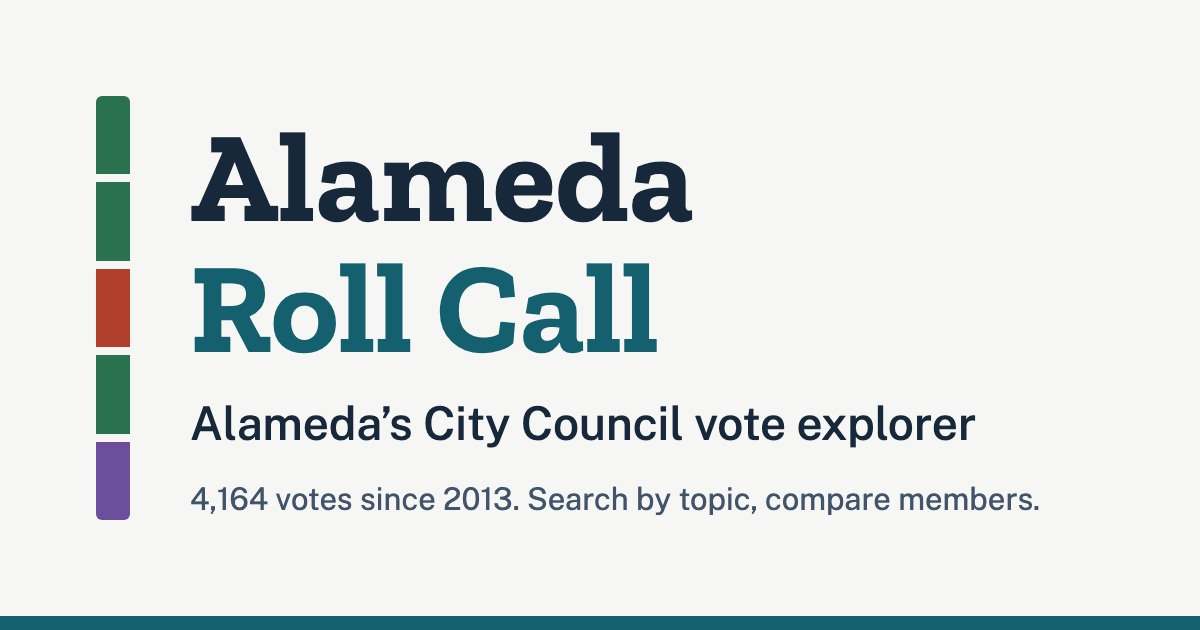
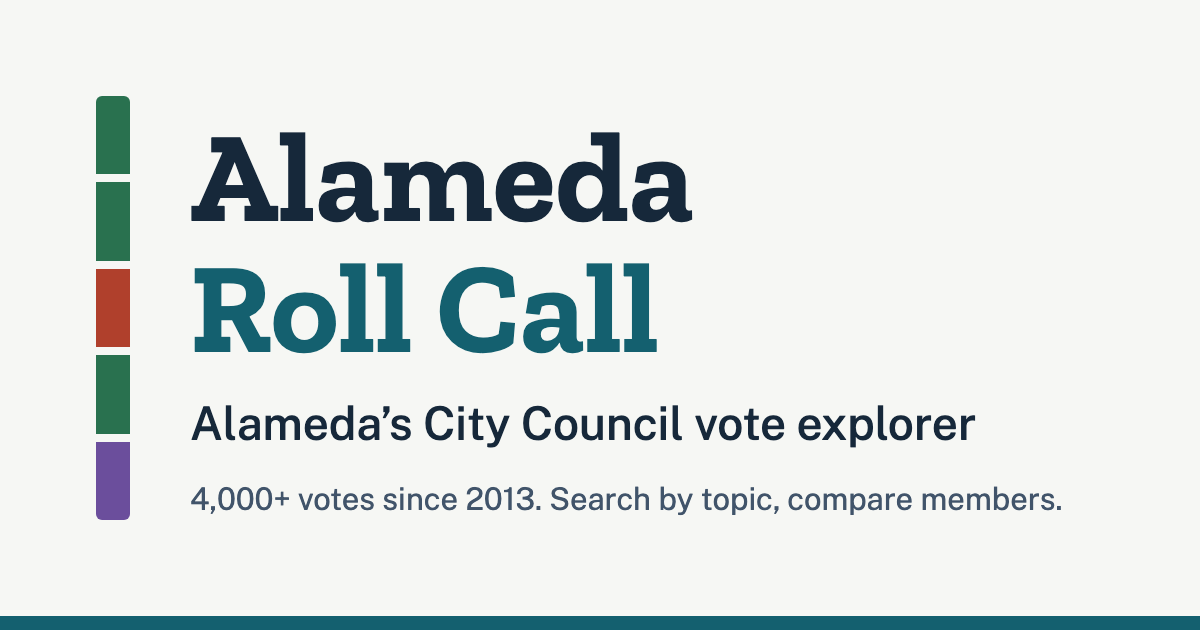
Show Ashcraft as the last name; fix recusals and a missed vote
- Label Marilyn Ezzy Ashcraft as "Ashcraft" where a last name is shown.
- A trailing "[Absent: X]" bracket no longer overrides a clerk's note that X
  recused (24 votes change from absent to recused, incl. Boller on 2026-09-15).
- Match the clerk's "carried by the by unanimous" typo, which had dropped the
  2026-09-15 accessory dwelling unit ordinance vote (4,165 votes now).
- Share image says "4,000+" so it doesn't go stale.

Changed region(s): [[0.185, 0.754, 0.8942, 0.8143]]

diff --git a/scrape_votes.py b/scrape_votes.py
@@ -48,6 +48,8 @@ COUNCIL_BODY_ID = 138  # "City Council" per /bodies
 # minutes, not assumed pre-2013 history. Names must match the clerk's
 # spelling; matching is substring-based, so e.g. "Spencer" also matches
 # later "Herrera Spencer" mentions after her name change.
+# "Ezzy" is a nickname/middle name, so show members as just "Ashcraft".
+DISPLAY_LAST = {"Ezzy Ashcraft": "Ashcraft"}
 MEMBERS = {
     "Ezzy Ashcraft": ("MEA", "Marilyn Ezzy Ashcraft", "Councilmember 2013-2018; Mayor 2019-present", "2013-present"),
     "Pryor":         ("MP",  "Michele Pryor", "Vice Mayor", "2024-2028"),
@@ -102,7 +104,9 @@ def build_members(votes):
     for frag, (s, n, r, t) in MEMBERS.items():
         meta = MEMBER_META.get(s, {})
         out.append({
-            "short": s, "name": n, "role": r, "term": t, "last": frag,
+            "short": s, "name": n, "role": r, "term": t,
+            # Display label; frag is the clerk's spelling used for matching.
+            "last": DISPLAY_LAST.get(frag, frag),
             "start": first.get(s),
             "end": None if meta.get("serving") else last.get(s),
             "spans": spans.get(s, []),
@@ -182,7 +186,7 @@ OTHER_BODY_RE = re.compile(r"\b(?:SACIC|APFA|CAFA|APIC|ACIC|PUB)\b")
 STATED_TALLY_RE = re.compile(r"Ayes:\s*(\d+)[.;]?\s*Noes:\s*(\d+)", re.I)
 
 UNANIMOUS_RE = re.compile(
-    r"\b(?P<outcome>carried|failed)\s+by\s+unanimous[^.]*?[-–—]\s*(?P<n>\d+)", re.I)
+    r"\b(?P<outcome>carried|failed)\s+by\s+(?:the\s+by\s+)?unanimous[^.]*?[-–—]\s*(?P<n>\d+)", re.I)  # clerk typo: "by the by unanimous"
 
 # "... carried by the following roll call vote: Ayes: ... - 4; Noes: ... - 1."
 # Also closed-session announcements ("approved the ... by the following voice
@@ -521,6 +525,14 @@ def vote_events(text, present, absent, ctx=""):
             # parts live in the rest of the paragraph after the "vote:" anchor
             window = re.split(r"\r?\n\s*\r?\n", text[m.end():m.end() + 500])[0]
             positions = parse_parts(window, present)
+            # The trailing "[Absent: X]" bracket also lists members who
+            # recused earlier in the item ("Councilmember X recused himself
+            # ... and left the dais"); the prose is the more specific cue.
+            gone = [s for s, v in positions.items() if v == "absent"]
+            if gone:
+                for s, label in find_missing(text[:m.end()], gone).items():
+                    if label == "recused":
+                        positions[s] = "recused"
             outcome = m.group("verb")
         if not positions:
             continue
